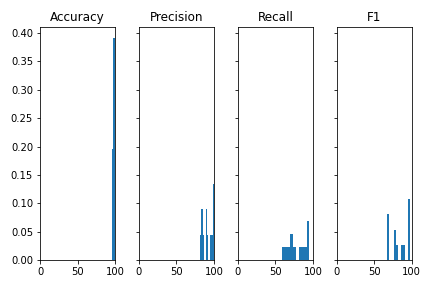
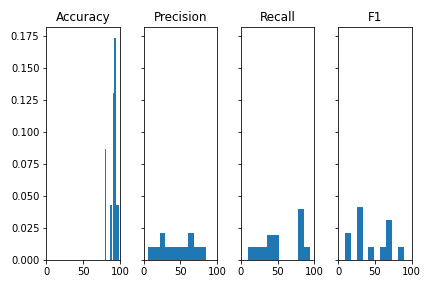
added drop out in hidden layer

diff --git a/trainer/trainer_nn.py b/trainer/trainer_nn.py
@@ -11,6 +11,8 @@ from sklearn.model_selection import StratifiedKFold
 from sklearn.model_selection import cross_validate #score evaluation
 from keras.models import Sequential
 from keras.layers import Dense
+from keras.layers import Dropout
+from keras.constraints import maxnorm
 import keras
 
 # In[]: Multiclassify labeler
@@ -39,7 +41,7 @@ result_dict["f1"] = []
 counter = 1
 
 for player in steamer.index:
-    if steamer[player] >= 0:
+    if steamer[player] >= 40:
         new_X = []
         max_tick = 0
         min_tick = np.inf
@@ -48,21 +50,21 @@ for player in steamer.index:
         for inst in X:
             atomic_inst = inst[1]
             atomic_inst = np.delete(atomic_inst, np.arange(1, atomic_inst.size, 35))
+            atomic_arr = []
+            for i in range(34):
+                atomic_arr.append(np.mean(atomic_inst[np.arange(i, atomic_inst.size, 34)]))
+            atomic_arr = np.array(atomic_arr)
+            atomic_arr = np.nan_to_num(atomic_arr, nan=0, posinf=0, neginf=0)
             steam_id = inst[0][0]
             hero_name = inst[0][1]
-            if atomic_inst.size < 1000 or atomic_inst.size > 80000:
-                continue
-            if steamer[str(steam_id) + hero_name] >= 10:
+            if steamer[str(steam_id) + hero_name] >= 15:
                 if (str(steam_id) + hero_name == player):
                     y.append(1)
                 else:
                     y.append(0)
             else:
                 continue
-            new_X.append(atomic_inst)
-
-        med_tick = 20000
-        new_X_padded  = list(map(lambda x: np.resize(x, med_tick) if np.size(x) >= med_tick else np.pad(x, (0, med_tick - x.size), 'constant'), new_X))
+            new_X.append(atomic_arr)
 
         y = np.array(y)
 
@@ -71,14 +73,16 @@ for player in steamer.index:
         ev_recall = []
         ev_f1 = []
         skf = StratifiedKFold(n_splits=5, shuffle=False)
-        for (train_index, test_index) in  skf.split(new_X_padded, y):
+        for (train_index, test_index) in  skf.split(new_X, y):
 
-            X_train, X_test = np.array(new_X_padded)[train_index.astype(int)], np.array(new_X_padded)[test_index.astype(int)]
+            X_train, X_test = np.array(new_X)[train_index.astype(int)], np.array(new_X)[test_index.astype(int)]
             y_train, y_test = np.array(y)[train_index.astype(int)], np.array(y)[test_index.astype(int)]
 
             model = Sequential()
-            model.add(Dense(50, input_dim=20000, activation='relu'))
-            model.add(Dense(50, activation='relu'))
+            model.add(Dense(50, input_dim=34, activation='relu', kernel_constraint=maxnorm(3)))
+            model.add(Dropout(0.25))
+            model.add(Dense(50, activation='relu', kernel_constraint=maxnorm(3)))
+            model.add(Dropout(0.25))
             model.add(Dense(1, activation='sigmoid'))
             # compile the keras model
             model.compile(loss='binary_crossentropy', optimizer='adam', metrics=['accuracy', keras.metrics.Precision(), keras.metrics.Recall()])
@@ -95,12 +99,6 @@ for player in steamer.index:
             else:
                 ev_f1.append(2 * results[2] * results[3] / (results[2] + results[3]))
 
-        # X_train, X_test, y_train, y_test = train_test_split(new_X_padded, y, test_size=0.25, random_state=42)
-        # from sklearn.linear_model import LogisticRegression
-
-        # clf = LogisticRegression(random_state=42, max_iter=200).fit(X_train, y_train)
-        # prediction_rm=clf.predict(X_test)
-        # result_rm=cross_validate(clf, new_X_padded, y, cv=5,scoring=['precision', 'recall', 'accuracy', 'f1'])
         result_dict["accuracy"].append(round(sum(ev_accuracy) / len(ev_accuracy)*100,2))
         result_dict["precision"].append(round(sum(ev_precision) / len(ev_precision)*100,2))
         result_dict["recall"].append(round(sum(ev_recall) / len(ev_recall)*100,2))
@@ -113,16 +111,18 @@ import matplotlib.pyplot as plt
 
 fig, axs = plt.subplots(1, 4, sharey=True, tight_layout=True)
 
-axs[0].hist(result_dict["accuracy"])
+axs[0].hist(result_dict["accuracy"], density=True)
 axs[0].set_title('Accuracy')
 axs[0].axis(xmin=0,xmax=100)
-axs[1].hist(result_dict["precision"])
+axs[1].hist(result_dict["precision"], density=True)
 axs[1].set_title('Precision')
 axs[1].axis(xmin=0,xmax=100)
-axs[2].hist(result_dict["recall"])
+axs[2].hist(result_dict["recall"], density=True)
 axs[2].set_title('Recall')
 axs[2].axis(xmin=0,xmax=100)
-axs[3].hist(result_dict["f1"])
+axs[3].hist(result_dict["f1"], density=True)
 axs[3].set_title('F1')
 axs[3].axis(xmin=0,xmax=100)
-plt.savefig('nn_histo_4.png')
+plt.savefig('nn_histo_5.png')
+
+# %%
